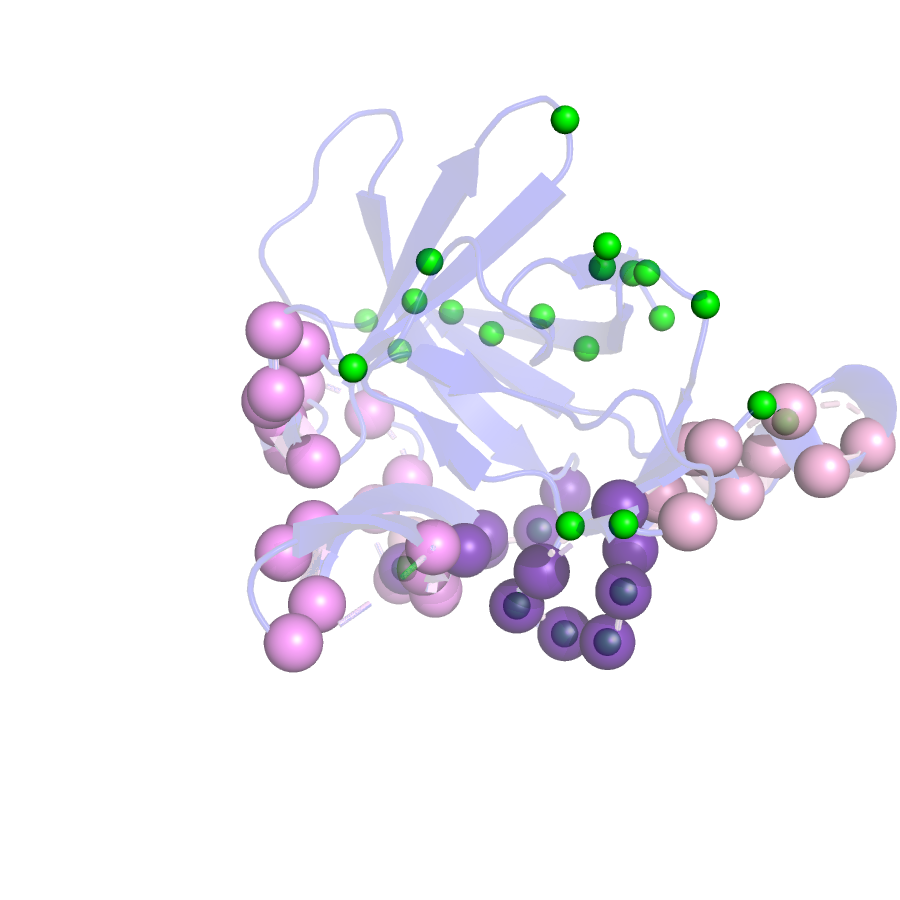
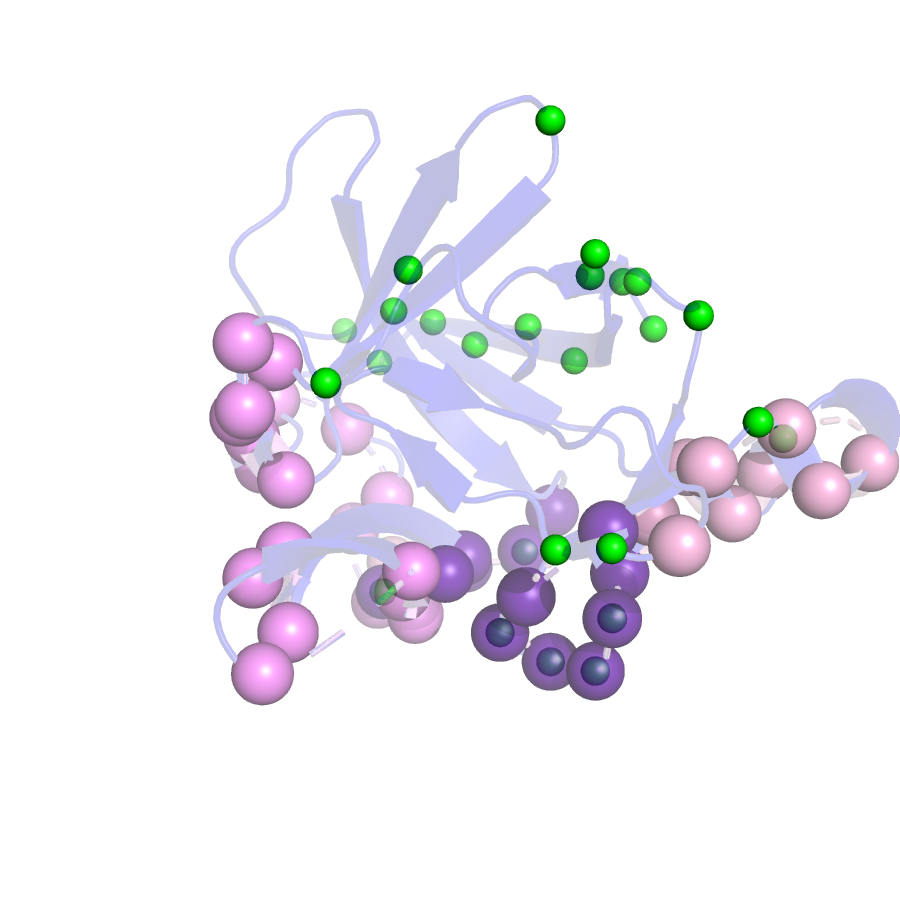
commit

Changed region(s): [[0.2178, 0.0933, 1.0, 0.8089]]

diff --git a/clustering_analysis/1_script_attempt/images_script.py b/clustering_analysis/1_script_attempt/images_script.py
@@ -71,9 +71,9 @@ def Main(predictors,df,results_path,code):
     # proteins= ["1ACB.I","1AT3.A","1DE4.E","1BUH.A","1FC2.D"]
     # proteins= ["7CEI.A","1QOR.A","1B34.A"]
     # proteins= ["4XXH.A","2UTG.A","1KXP.D"]
-    os.mkdir(f"{results_folder}")
-    os.mkdir(f"{results_folder}/{folder}")
-    os.mkdir(f"{results_folder}/scripts")
+    # os.mkdir(f"{results_folder}")
+    # os.mkdir(f"{results_folder}/{folder}")
+    # os.mkdir(f"{results_folder}/scripts")
     for protein in proteins:
         pml_maker(protein,df,cutoff_csv,folder,path,predictors,results_folder)
 
@@ -90,7 +90,7 @@ def image_wrapper(args):
             filename = f"{results_folder}/{folder}/{protein}/{protein}_{predictor}.png"
             check = os.path.exists(filename)
 
-            if check  == False:
+            if check  == True:
                 total_script=f"""delete all 
                 fetch {protein}.{chain_name}
 
@@ -135,31 +135,31 @@ def image_wrapper(args):
 
                 show sphere, annotated1
                 color pink, annotated1
-                set sphere_transparency, 0.5,annotated1
+                set sphere_transparency, 0.3,annotated1
                 show sphere, annotated2
                 color blue, annotated2
-                set sphere_transparency, 0.5,annotated2
+                set sphere_transparency, 0.3,annotated2
                 show sphere, annotated3
                 color aquamarine, annotated3
-                set sphere_transparency, 0.5,annotated3
+                set sphere_transparency, 0.3,annotated3
                 show sphere, annotated4
                 color br3, annotated4
-                set sphere_transparency, 0.5,annotated4
+                set sphere_transparency, 0.3,annotated4
                 show sphere, annotated5
                 color br6, annotated5
-                set sphere_transparency, 0.5,annotated5
+                set sphere_transparency, 0.3,annotated5
                 show sphere, annotated6
                 color br9, annotated6
-                set sphere_transparency, 0.5,annotated6
+                set sphere_transparency, 0.3,annotated6
                 show sphere, annotated7
                 color brightorange, annotated7
-                set sphere_transparency, 0.5,annotated7
+                set sphere_transparency, 0.3,annotated7
                 show sphere, annotated8
                 color deepsalmon, annotated8
-                set sphere_transparency, 0.5,annotated8
+                set sphere_transparency, 0.3,annotated8
                 show sphere, annotated9
                 color violet, annotated9
-                set sphere_transparency, 0.5,annotated9
+                set sphere_transparency, 0.3,annotated9
 
 
 
@@ -229,14 +229,14 @@ def pml_maker(protein,df,cutoff_csv,folder,path,predictors,results_folder):
         for file_ann in folder_annotated.iterdir():
             if protein in file_ann.name:
 
-                if "1" in file_ann.name:
+                if "_1" in file_ann.name:
                     with open (file_ann) as infile_ann1:
                         annotated_list1 = []
                         for line_ann1 in infile_ann1:
                             annotated_list1.append(line_ann1.strip())
                     epitope1 = "+".join(annotated_list1)
                     # print(epitope1)
-                if "2" in file_ann.name:
+                if "_2" in file_ann.name:
                     with open (file_ann) as infile_ann2:
                         annotated_list2 = []
                         for line_ann2 in infile_ann2:
@@ -244,31 +244,31 @@ def pml_maker(protein,df,cutoff_csv,folder,path,predictors,results_folder):
                     print(annotated_list2, "hh")
                     epitope2 = "+".join(annotated_list2)
                     print(epitope2, "hhhh")
-                if "3" in file_ann.name:
+                if "_3" in file_ann.name:
                     with open (file_ann) as infile_ann3:
                         annotated_list3 = []
                         for line_ann3 in infile_ann3:
                             annotated_list3.append(line_ann3.strip())
                     epitope3 = "+".join(annotated_list3)
-                if "4" in file_ann.name:
+                if "_4" in file_ann.name:
                     with open (file_ann) as infile_ann4:
                         annotated_list4 = []
                         for line_ann4 in infile_ann4:
                             annotated_list4.append(line_ann4.strip())
                     epitope4 = "+".join(annotated_list4)
-                if "5" in file_ann.name:
+                if "_5" in file_ann.name:
                     with open (file_ann) as infile_ann5:
                         annotated_list5 = []
                         for line_ann5 in infile_ann5:
                             annotated_list5.append(line_ann5.strip())
                     epitope5 = "+".join(annotated_list5)
-                if "6" in file_ann.name:
+                if "_6" in file_ann.name:
                     with open (file_ann) as infile_ann6:
                         annotated_list6 = []
                         for line_ann6 in infile_ann6:
                             annotated_list6.append(line_ann6.strip())
                     epitope6 = "+".join(annotated_list6)
-                if "7" in file_ann.name:
+                if "_7" in file_ann.name:
                     with open (file_ann) as infile_ann7:
                         annotated_list7 = []
                         for line_ann7 in infile_ann7:
@@ -276,14 +276,14 @@ def pml_maker(protein,df,cutoff_csv,folder,path,predictors,results_folder):
                             annotated_list7.append("10000000000")
                     epitope7 = "+".join(annotated_list7)
                     
-                if "8" in file_ann.name:
+                if "_8" in file_ann.name:
                     with open (file_ann) as infile_ann8:
                         annotated_list8 = []
                         for line_ann8 in infile_ann8:
                             annotated_list8.append(line_ann8.strip())
                             annotated_list8.append("10000000000")
                     epitope8 = "+".join(annotated_list8)
-                if "9" in file_ann.name:
+                if "_9" in file_ann.name:
                     with open (file_ann) as infile_ann9:
                         annotated_list9 = []
                         for line_ann9 in infile_ann9:
